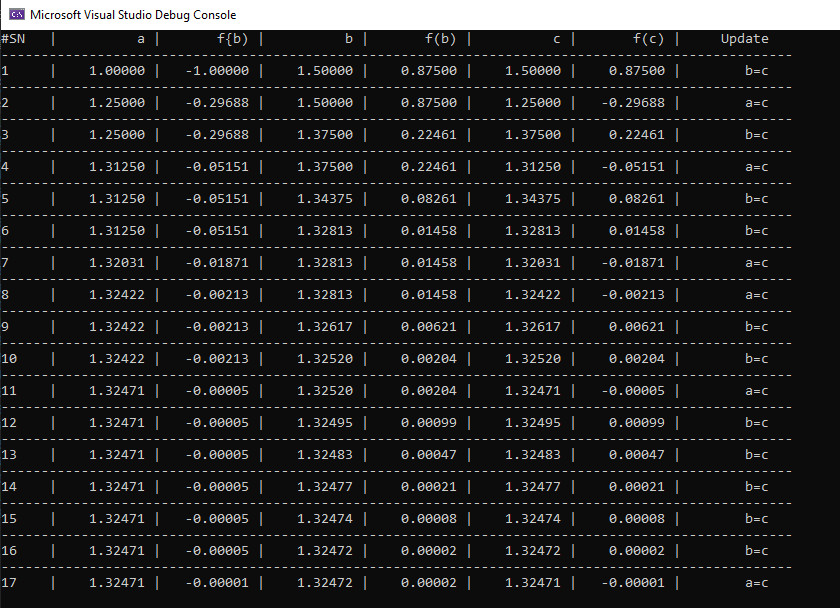
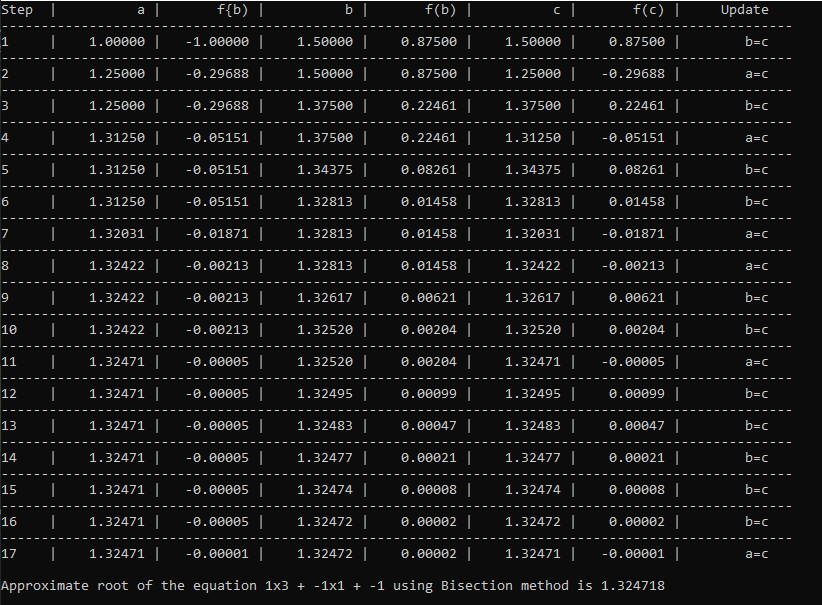
false position method

Changed region(s): [[0.0, 0.0, 1.0, 0.9818], [0.882, 0.9521, 0.9124, 0.9818]]

diff --git a/NumericalAnalysis/RootOfEquation/BisectionMethod.cs b/NumericalAnalysis/RootOfEquation/BisectionMethod.cs
@@ -11,27 +11,29 @@ namespace NumericalAnalysis.RootOfEquation
         private double pointB = 1;
         public Equation Equation { get; set; }
         public double Accuracy { get; set; }
-        public double GetRoot()
+
+        public void GetRoot()
         {
             int step = 1;
-            FindPointOfA_B();
+            FindPoint();
             double c = (pointA + pointB) / 2;
-            double fOfC = Equation.GetEquationVal(c);
+            double fOfC = Equation.F(c);
             string update = "";
-            WriteLine("{0,-5} | {1,10} | {2,10} | {3,10} | {4,10} | {5,10} | {6,10} | {7,10}", "#SN", "a", "f{b)", "b", "f(b)", "c", "f(c)", "Update");
+            WriteLine("{0,-5} | {1,10} | {2,10} | {3,10} | {4,10} | {5,10} | {6,10} | {7,10}", "Step", "a", "f{b)", "b", "f(b)", "c", "f(c)", "Update");
 
-            do
+
+            while (c != 0 && Math.Abs(fOfC) >= Accuracy)
             {
                 if (fOfC == 0)
                 {
-                    return c;
+                    break;
                 }
-                else if ((Equation.GetEquationVal(pointA) * fOfC) < 0)
+                else if ((Equation.F(pointA) * fOfC) < 0)
                 {
                     pointB = c;
                     update = "b=c";
                 }
-                else if ((Equation.GetEquationVal(pointB) * fOfC) < 0)
+                else if ((Equation.F(pointB) * fOfC) < 0)
                 {
                     pointA = c;
                     update = "a=c";
@@ -39,29 +41,30 @@ namespace NumericalAnalysis.RootOfEquation
                 WriteLine("---------------------------------------------------------------------------------------------------");
                 WriteLine("{0,-5} | {1,10} | {2,10} | {3,10} | {4,10} | {5,10} | {6,10} | {7,10}",
                      step++, pointA.ToString("0.00000"),
-                     Equation.GetEquationVal(pointA).ToString("0.00000"),
+                     Equation.F(pointA).ToString("0.00000"),
                      pointB.ToString("0.00000"),
-                     Equation.GetEquationVal(pointB).ToString("0.00000"),
+                     Equation.F(pointB).ToString("0.00000"),
                      c.ToString("0.00000"),
                      fOfC.ToString("0.00000"),
                      update);
                 c = (pointA + pointB) / 2;
-                fOfC = Equation.GetEquationVal(c);
+                fOfC = Equation.F(c);
             }
-            while (c != 0 && Math.Abs(fOfC) >= Accuracy);
-            
-            return c;
+            WriteLine();
+            WriteLine($"Approximate root of the equation {Equation.Variable1.Coefficient}x{Equation.Variable1.Pow} + " +
+                $"{Equation.Variable2.Coefficient}x{Equation.Variable2.Pow} + {Equation.ConstVal} using Bisection method is " +
+                $"{c:0.000000}");
         }
 
-        public void FindPointOfA_B()
+        public void FindPoint()
         {
             if (Equation is null) { throw new Exception("Equation not found!"); }
-            double multiplicationOfFofAB = Equation.GetEquationVal(pointA) * Equation.GetEquationVal(pointB);
+            double multiplicationOfFofAB = Equation.F(pointA) * Equation.F(pointB);
             while (multiplicationOfFofAB > 0)
             {
                 pointA++;
                 pointB++;
-                multiplicationOfFofAB = Equation.GetEquationVal(pointA) * Equation.GetEquationVal(pointB);
+                multiplicationOfFofAB = Equation.F(pointA) * Equation.F(pointB);
             }
         }
     }

diff --git a/NumericalAnalysis/RootOfEquation/FalsePositionMethod.cs b/NumericalAnalysis/RootOfEquation/FalsePositionMethod.cs
@@ -1,10 +1,74 @@
 using System;
-using System.Collections.Generic;
-using System.Text;
+using static System.Console;
 
 namespace NumericalAnalysis.RootOfEquation
 {
-    class FalsePositionMethod
+    public class FalsePositionMethod : IRootFinder
     {
+        private double pointX0 = 0;
+        private double pointX1 = 1;
+        public Equation Equation { get; set; }
+        public double Accuracy { get; set; }
+
+        public void FindPoint()
+        {
+            if (Equation is null) { throw new Exception("Equation not found!"); }
+            double multiplicationOfFofAB = Equation.F(pointX0) * Equation.F(pointX1);
+            while (multiplicationOfFofAB > 0)
+            {
+                pointX0++;
+                pointX1++;
+                multiplicationOfFofAB = Equation.F(pointX0) * Equation.F(pointX1);
+            }
+        }
+
+        public void GetRoot()
+        {
+            int step = 1;
+            FindPoint();
+            double x2 = pointX0 - 
+                (Equation.F(pointX0) * 
+                ((pointX1 - pointX0) / (Equation.F(pointX1) - Equation.F(pointX0))
+                ));
+            double fOfC = Equation.F(x2);
+            string update = "";
+            WriteLine("{0,-5} | {1,10} | {2,10} | {3,10} | {4,10} | {5,10} | {6,10} | {7,10}", "Step", "a", "f{b)", "b", "f(b)", "c", "f(c)", "Update");
+
+            while (x2 != 0 && Math.Abs(fOfC) >= Accuracy)
+            {
+                if (fOfC == 0)
+                {
+                    break;
+                }
+                else if ((Equation.F(pointX0) * fOfC) < 0)
+                {
+                    pointX1 = x2;
+                    update = "x1=x2";
+                }
+                else if ((Equation.F(pointX1) * fOfC) < 0)
+                {
+                    pointX0 = x2;
+                    update = "x0=x2";
+                }
+                WriteLine("---------------------------------------------------------------------------------------------------");
+                WriteLine("{0,-5} | {1,10} | {2,10} | {3,10} | {4,10} | {5,10} | {6,10} | {7,10}",
+                     step++, pointX0.ToString("0.00000"),
+                     Equation.F(pointX0).ToString("0.00000"),
+                     pointX1.ToString("0.00000"),
+                     Equation.F(pointX1).ToString("0.00000"),
+                     x2.ToString("0.00000"),
+                     fOfC.ToString("0.00000"),
+                     update);
+                x2 = pointX0 -
+                (Equation.F(pointX0) *
+                ((pointX1 - pointX0) / (Equation.F(pointX1) - Equation.F(pointX0))
+                ));
+                fOfC = Equation.F(x2);
+            }
+            WriteLine();
+            WriteLine($"Approximate root of the equation {Equation.Variable1.Coefficient}x{Equation.Variable1.Pow} + " +
+                $"{Equation.Variable2.Coefficient}x{Equation.Variable2.Pow} + {Equation.ConstVal} using False Position method is " +
+                $"{x2:0.000000}");
+        }
     }
 }

diff --git a/NumericalAnalysis/Program.cs b/NumericalAnalysis/Program.cs
@@ -1,5 +1,5 @@
 using NumericalAnalysis.RootOfEquation;
-using System;
+using static System.Console;
 
 namespace NumericalAnalysis
 {
@@ -7,15 +7,26 @@ namespace NumericalAnalysis
     {
         static void Main(string[] args)
         {
-            Equation eq = new Equation();
-            eq.Variable1 = (1, 3);
-            eq.Variable2 = (-1, 1);
-            eq.ConstVal = -1;
+            Equation eq = new Equation
+            {
+                Variable1 = (1, 3),
+                Variable2 = (-1, 1),
+                ConstVal = -1
+            };
 
-            BisectionMethod bm = new BisectionMethod();
-            bm.Accuracy = 0.00001;
-            bm.Equation = eq;
-            double root = bm.GetRoot();
+            IRootFinder bm = new BisectionMethod
+            {
+                Accuracy = 0.00001,
+                Equation = eq
+            };
+            bm.GetRoot();
+            WriteLine();
+            IRootFinder fpm = new FalsePositionMethod()
+            {
+                Accuracy = 0.00001,
+                Equation = eq
+            };
+            fpm.GetRoot();
         }
     }
 }

diff --git a/NumericalAnalysis/RootOfEquation/Equation.cs b/NumericalAnalysis/RootOfEquation/Equation.cs
@@ -6,17 +6,11 @@ namespace NumericalAnalysis.RootOfEquation
 {
     public class Equation
     {
-        /// <summary>
-        /// Dicttionary<coefficent,pow>
-        /// </summary>
         public (int Coefficient, int Pow) Variable1 { get; set; }
-        /// <summary>
-        /// Dicttionary<coefficent,pow>
-        /// </summary>
         public (int Coefficient, int Pow) Variable2 { get; set; }
         public int ConstVal { get; set; }
 
-        public double GetEquationVal(double valueOfVariable)
+        public double F(double valueOfVariable)
         {
             double result = (
                 Variable1.Coefficient * Math.Pow(valueOfVariable, Variable1.Pow) +

diff --git a/NumericalAnalysis/RootOfEquation/IRootFinder.cs b/NumericalAnalysis/RootOfEquation/IRootFinder.cs
@@ -6,8 +6,10 @@ namespace NumericalAnalysis.RootOfEquation
 {
     public interface IRootFinder
     {
-        double GetRoot();
-        void FindPointOfA_B();
+        Equation Equation { get; set; }
+        double Accuracy { get; set; }
+        void GetRoot();
+        void FindPoint();
 
     }
 }
